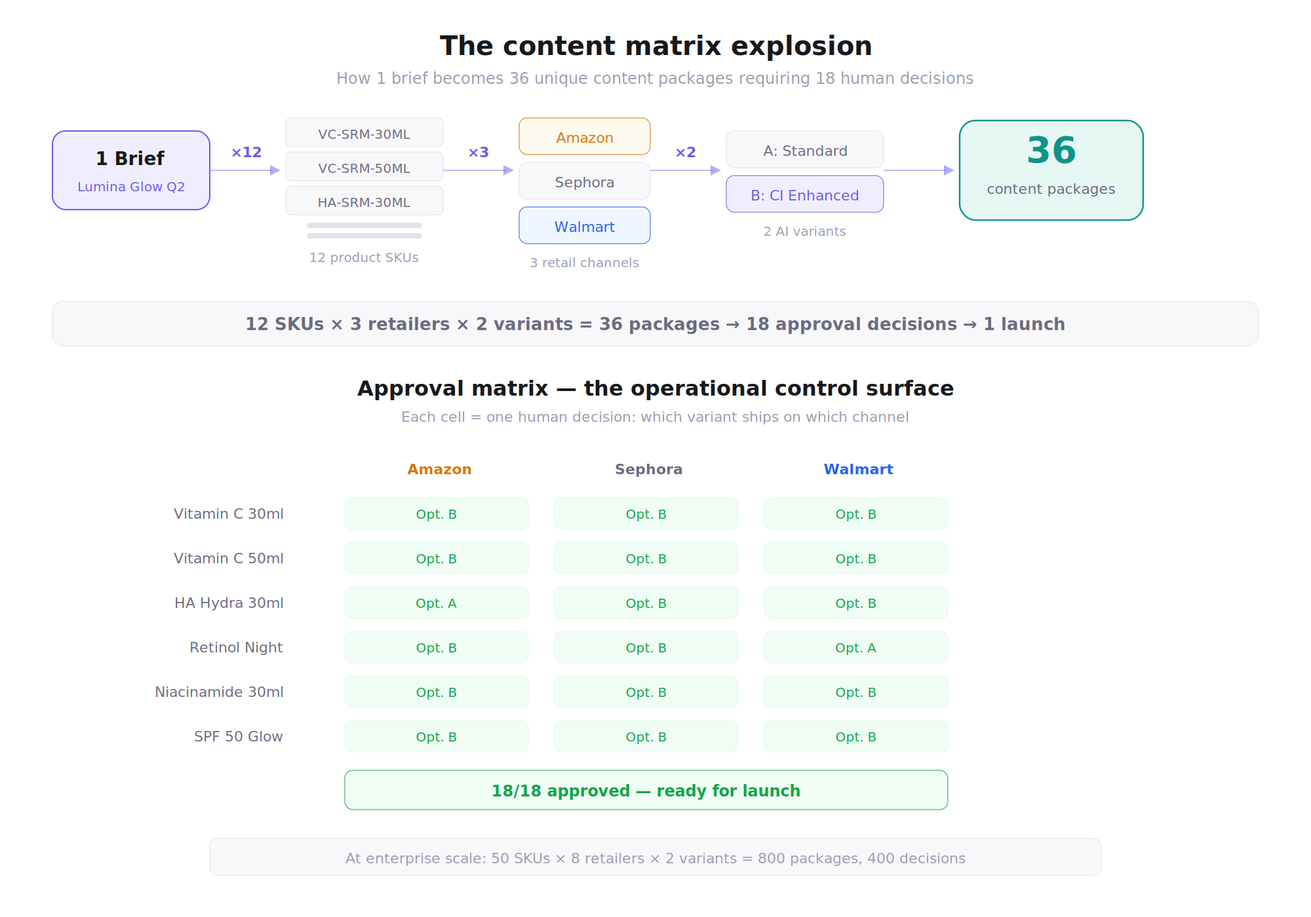
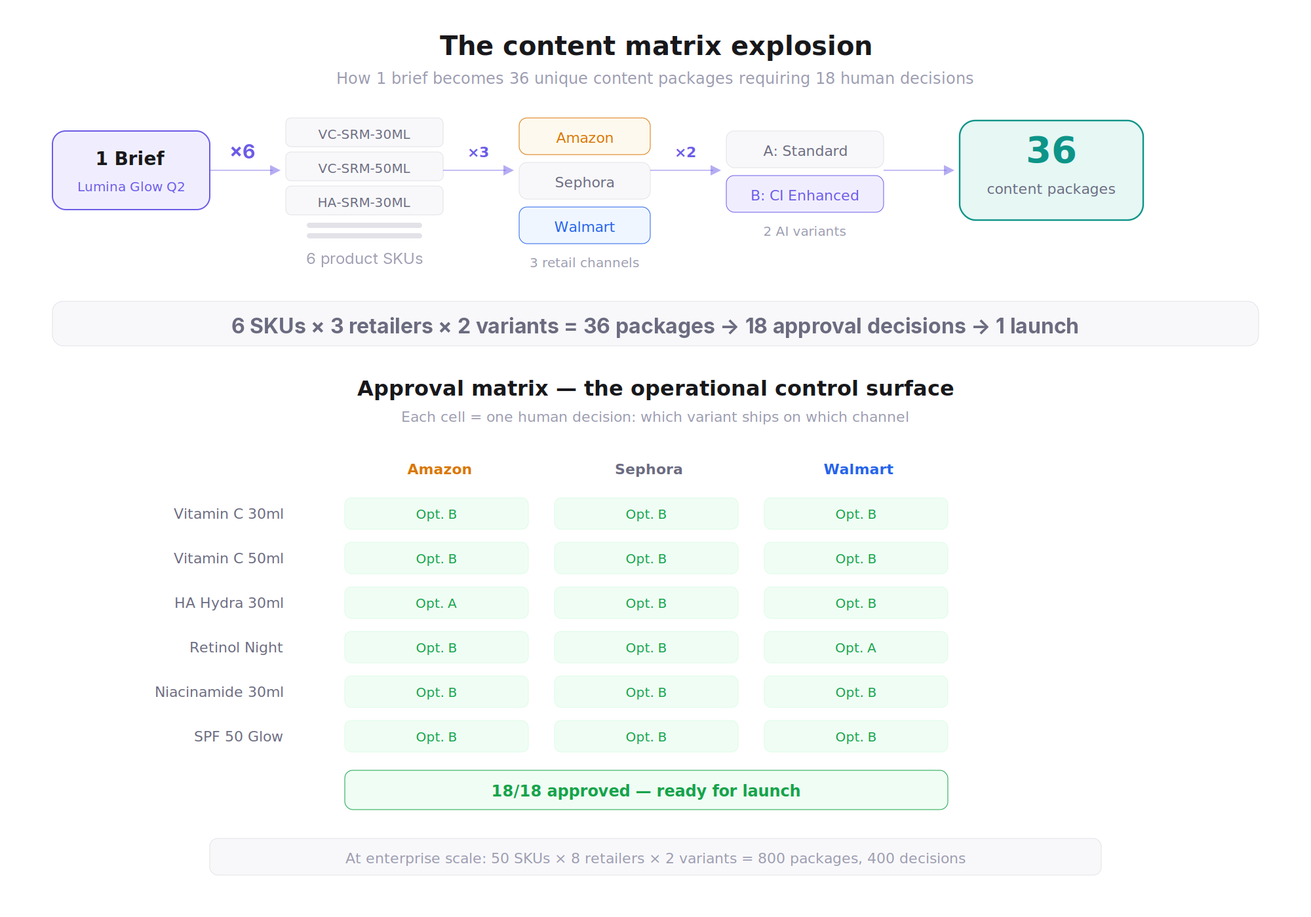
Fix deploy issues: email links, CV path, portrait format, ShelfFlow copy
- Replace Cloudflare-obfuscated email hrefs (/cdn-cgi/l/email-protection)
  with plain mailto: links in nav, contact block and footer. These were
  dead links outside Cloudflare, so the site's primary contact path was
  broken on GitHub Pages.
- Drop the two leftover cloudflare-static/email-decode.min.js script tags,
  which 404'd on every page load and no longer had anything to decode.
- Rename "Inigo Angulo CV 2026.pdf" to inigo-angulo-cv-2026.pdf and update
  both download links to remove the URL-encoded spaces.
- Swap the portrait from .jfif (unsupported in several browsers) to .webp.
- Point footer and Approach CTA hrefs at real fragments instead of "#".
- Copy fixes: "Trusted by" to "Worked with", 10+ to 9+ years, "+11 pts"
  to "+11%".
- ShelfFlow: correct the content matrix math to 6 SKUs x 3 retailers x
  2 variants = 36 packages throughout, and update workflow-3 diagram.

Claude-Session: https://claude.ai/code/session_012gDUzAeNXRnrzEKHXgrcxR

Changed region(s): [[0.155, 0.3379, 0.837, 0.3686], [0.248, 0.2764, 0.31, 0.3071], [0.186, 0.1536, 0.217, 0.1843]]

diff --git a/index.html b/index.html
@@ -684,10 +684,10 @@ a{color:inherit;text-decoration:none}button{font-family:inherit;border:none;back
 <div class="mob-menu__link" onclick="mgo('about')"><span>How I think</span><span class="mob-menu__link-num">02</span></div>
 <div class="mob-menu__link" onclick="mgo('logs')"><span>About</span><span class="mob-menu__link-num">03</span></div>
 <div class="mob-menu__cta"><a onclick="mgo('_contact')">Get in touch &#8594;</a></div>
-<div class="mob-menu__contact"><a href="/cdn-cgi/l/email-protection#2e47404749414f40495b42416e49434f4742004d4143">Email</a><a href="https://www.linkedin.com/in/i%C3%B1igo-angulo-1ab25a134/" target="_blank">LinkedIn</a><a href="tel:+41799528321">Phone</a></div>
+<div class="mob-menu__contact"><a href="mailto:inigoangulo@gmail.com">Email</a><a href="https://www.linkedin.com/in/i%C3%B1igo-angulo-1ab25a134/" target="_blank">LinkedIn</a><a href="tel:+41799528321">Phone</a></div>
 </div>
 </div>
-<script data-cfasync="false" src="/cdn-cgi/scripts/5c5dd728/cloudflare-static/email-decode.min.js"></script><script>
+<script>
 function go(n){
   document.querySelectorAll('.v').forEach(function(v){v.classList.remove('on')});
   document.querySelectorAll('.bar__btn').forEach(function(b){b.classList.remove('on')});
@@ -712,10 +712,10 @@ function go(n){
 <div class="hero__proof-item"><span class="hero__proof-val hero__proof-val--a">-22%</span><span class="hero__proof-label">Funnel friction</span><span class="hero__proof-ctx">ENSO, 3 European markets</span></div>
 <div class="hero__proof-item"><span class="hero__proof-val hero__proof-val--p">+34%</span><span class="hero__proof-label">Booking conversion</span><span class="hero__proof-ctx">ENSO, risk-calibrated urgency</span></div>
 </div>
-<div style="display:flex;gap:12px;flex-wrap:wrap"><a href="#contact" class="hero__cta" onclick="event.preventDefault();document.getElementById('contact').scrollIntoView({behavior:'smooth'})">Get in touch &#8594;</a><a href="Inigo%20Angulo%20CV%202026.pdf" download class="hero__cta" style="background:transparent;color:var(--ac2);border:1px solid var(--acb);box-shadow:none" onmouseover="this.style.background='var(--acg2)';this.style.boxShadow='0 0 20px var(--acg)'" onmouseout="this.style.background='transparent';this.style.boxShadow='none'">Download CV &#8595;</a></div>
+<div style="display:flex;gap:12px;flex-wrap:wrap"><a href="#contact" class="hero__cta" onclick="event.preventDefault();document.getElementById('contact').scrollIntoView({behavior:'smooth'})">Get in touch &#8594;</a><a href="inigo-angulo-cv-2026.pdf" download class="hero__cta" style="background:transparent;color:var(--ac2);border:1px solid var(--acb);box-shadow:none" onmouseover="this.style.background='var(--acg2)';this.style.boxShadow='0 0 20px var(--acg)'" onmouseout="this.style.background='transparent';this.style.boxShadow='none'">Download CV &#8595;</a></div>
 </div></div>
 
-<div class="clients"><div class="clients__inner"><p class="clients__label">Trusted by teams at</p><div class="clients__grid"><span class="clients__item">WPP</span><span class="clients__item">GetYourGuide</span><span class="clients__item">ING Bank</span><span class="clients__item">Adecco Group</span><span class="clients__item">Ferrari Switzerland</span><span class="clients__item">Moderna</span><span class="clients__item">Schneider Electric</span></div></div></div>
+<div class="clients"><div class="clients__inner"><p class="clients__label">Worked with teams at</p><div class="clients__grid"><span class="clients__item">WPP</span><span class="clients__item">GetYourGuide</span><span class="clients__item">ING Bank</span><span class="clients__item">Adecco Group</span><span class="clients__item">Ferrari Switzerland</span><span class="clients__item">Moderna</span><span class="clients__item">Schneider Electric</span></div></div></div>
 
 <div class="layer"><div class="mx">
 
@@ -724,7 +724,7 @@ function go(n){
 <p style="font-family:var(--m);font-size:.68rem;color:var(--ac);text-transform:uppercase;letter-spacing:.18em;margin-bottom:16px">// approach</p>
 <h2 style="font-family:var(--s);font-size:2.2rem;font-weight:800;letter-spacing:-.04em;line-height:1.12;margin-bottom:16px">I design backwards.</h2>
 <p style="font-family:var(--s);font-size:.94rem;color:var(--t2);line-height:1.7">Start with the decision the business needs to make. Build the system that produces it. Everything else gets removed.</p>
-<a href="#" onclick="go('about');return false" style="display:inline-flex;align-items:center;gap:6px;margin-top:20px;font-family:var(--s);font-size:.82rem;font-weight:500;color:var(--ac2);border:1px solid var(--acb);background:var(--acg2);padding:8px 20px;border-radius:6px;transition:all .3s var(--e);letter-spacing:.01em" onmouseover="this.style.background='var(--ac)';this.style.color='#000';this.style.borderColor='var(--ac)';this.style.boxShadow='0 0 20px var(--acg)'" onmouseout="this.style.background='var(--acg2)';this.style.color='var(--ac2)';this.style.borderColor='var(--acb)';this.style.boxShadow='none'">How I think <span style="font-size:.7rem">&#8594;</span></a>
+<a href="#how-i-think" onclick="go('about');return false" style="display:inline-flex;align-items:center;gap:6px;margin-top:20px;font-family:var(--s);font-size:.82rem;font-weight:500;color:var(--ac2);border:1px solid var(--acb);background:var(--acg2);padding:8px 20px;border-radius:6px;transition:all .3s var(--e);letter-spacing:.01em" onmouseover="this.style.background='var(--ac)';this.style.color='#000';this.style.borderColor='var(--ac)';this.style.boxShadow='0 0 20px var(--acg)'" onmouseout="this.style.background='var(--acg2)';this.style.color='var(--ac2)';this.style.borderColor='var(--acb)';this.style.boxShadow='none'">How I think <span style="font-size:.7rem">&#8594;</span></a>
 </div>
 
 <!-- Scroll-driven scribble -->
@@ -755,7 +755,7 @@ function go(n){
 <a href="work/shelfflow.html" class="cd cd--f cd--5"><div class="cd__img"><img src="img/shelfflow/cover.png" alt="ShelfFlow platform overview" style="width:100%;height:100%;object-fit:cover;object-position:center;position:absolute;inset:0"></div><div class="cd__body"><div class="cd__type"><span class="cd__tag cd__tag--what">B2B SaaS</span><span class="cd__tag cd__tag--what">AI-Assisted Workflow</span><span class="cd__tag cd__tag--what">Human-in-the-Loop</span><span class="cd__tag cd__tag--what">Content Operations</span><span class="cd__tag cd__tag--result">1 Brief &#8594; 36 Packages</span></div><h3 class="cd__name">ShelfFlow</h3><p class="cd__desc">Retail content operations had become slow, fragmented and impossible to scale. I designed the workflow operating system that turned complex brief creation, approvals and multi-retailer deployment into one structured AI-assisted flow.</p><div class="cd__foot"><span class="cd__yr">View case study</span><span class="cd__go">&#8594;</span></div></div></a>
 <a href="work/retailnorm.html" class="cd cd--1"><div class="cd__img"><img src="img/Retailnorm.png" alt="RetailNorm dashboard" style="width:100%;height:100%;object-fit:cover;position:absolute;inset:0"></div><div class="cd__body"><div class="cd__type"><span class="cd__tag cd__tag--what">Commerce</span><span class="cd__tag cd__tag--what">Dashboards</span><span class="cd__tag cd__tag--live">Live</span></div><h3 class="cd__name">RetailNorm</h3><p class="cd__desc">Cross-platform retail media analytics. Normalized incomparable ROAS data into a single trustworthy view. 40x faster reporting. Live product.</p><div class="cd__foot"><span class="cd__yr">View case study</span><span class="cd__go">&#8594;</span></div></div></a>
 <div class="cards__side">
-<a href="work/checkout.html" class="cd cd--3"><div class="cd__img"><img src="img/gyg-checkoutfunnel.jpeg" alt="GetYourGuide checkout redesign" style="width:100%;height:100%;object-fit:cover;object-position:center 30%;position:absolute;inset:0"></div><div class="cd__body"><div class="cd__type"><span class="cd__tag cd__tag--who">GetYourGuide</span><span class="cd__tag cd__tag--what">Growth &amp; CRO</span><span class="cd__tag cd__tag--result">+11% Conversion</span></div><h3 class="cd__name">Checkout Funnel Redesign</h3><p class="cd__desc">The team was optimizing the wrong step. 38% of converters left checkout and came back with no re-entry experience. The problem wasn't payment. It was the gap nobody measured. +11 pts, 4 EU markets.</p><div class="cd__foot"><span class="cd__yr">View case study</span><span class="cd__go">&#8594;</span></div></div></a>
+<a href="work/checkout.html" class="cd cd--3"><div class="cd__img"><img src="img/gyg-checkoutfunnel.jpeg" alt="GetYourGuide checkout redesign" style="width:100%;height:100%;object-fit:cover;object-position:center 30%;position:absolute;inset:0"></div><div class="cd__body"><div class="cd__type"><span class="cd__tag cd__tag--who">GetYourGuide</span><span class="cd__tag cd__tag--what">Growth &amp; CRO</span><span class="cd__tag cd__tag--result">+11% Conversion</span></div><h3 class="cd__name">Checkout Funnel Redesign</h3><p class="cd__desc">The team was optimizing the wrong step. 38% of converters left checkout and came back with no re-entry experience. The problem wasn't payment. It was the gap nobody measured. +11%, 4 EU markets.</p><div class="cd__foot"><span class="cd__yr">View case study</span><span class="cd__go">&#8594;</span></div></div></a>
 <a href="work/kodo.html" class="cd cd--2"><div class="cd__img"><img src="img/kodo/thumbnail.png" alt="KŌDO Arbitrage trading interface" style="width:100%;height:100%;object-fit:cover;position:absolute;inset:0"></div><div class="cd__body"><div class="cd__type"><span class="cd__tag cd__tag--who">Private Client</span><span class="cd__tag cd__tag--what">Crypto</span><span class="cd__tag cd__tag--what">Web3</span><span class="cd__tag cd__tag--what">Trading Interface</span><span class="cd__tag cd__tag--result">24/7 Live Capital</span></div><h3 class="cd__name">KŌDO Arbitrage</h3><p class="cd__desc">Private Web3 client. 24/7 autonomous execution. v1 had 23 metrics and the operator couldn't decide in under 30 minutes. A design failure with financial consequences. v2 answers one question.</p><div class="cd__foot"><span class="cd__yr">View case study</span><span class="cd__go">&#8594;</span></div></div></a>
 <a href="work/enso.html" class="cd cd--4"><div class="cd__img"><img src="img/enso.png" alt="ENSO Co-Living" style="width:100%;height:100%;object-fit:cover;position:absolute;inset:0"></div><div class="cd__body"><div class="cd__type"><span class="cd__tag cd__tag--who">ENSO Co-Living</span><span class="cd__tag cd__tag--what">PropTech</span><span class="cd__tag cd__tag--result">4x Adoption</span><span class="cd__tag cd__tag--result">+34% Conversion</span></div><h3 class="cd__name">ENSO Co-Living</h3><p class="cd__desc">Two phases, one platform. Redesigned onboarding (4x adoption), then built a risk-calibrated urgency system for the catalogue (+34% booking conversion). 3 European markets.</p><div class="cd__foot"><span class="cd__yr">View case study</span><span class="cd__go">&#8594;</span></div></div></a>
 </div>
@@ -763,7 +763,7 @@ function go(n){
 
 
 
-<div class="layer layer--raised" id="contact"><div class="mx"><div class="contact__row"><div class="contact__left"><h2>Let's talk about your system.</h2><p style="font-family:var(--s);font-size:.88rem;color:var(--t2);line-height:1.65;max-width:380px;margin-bottom:24px">I work on complex product problems where design directly impacts revenue, decision quality, or operational efficiency. Commerce, fintech, data-heavy systems.</p><div class="cl"><a href="/cdn-cgi/l/email-protection#771e191e1018161910021b1837101a161e1b5914181a"><span>Email</span><span class="__cf_email__" data-cfemail="61080f08060e000f06140d0e21060c00080d4f020e0c">[email&#160;protected]</span></a><a href="https://www.linkedin.com/in/i%C3%B1igo-angulo-1ab25a134/" target="_blank"><span>LinkedIn</span>/inigo-angulo</a><a href="tel:+41799528321"><span>Phone</span>+41 79 952 83 21</a></div><p style="font-family:var(--s);font-size:.76rem;color:var(--t3);margin-top:20px;line-height:1.6">Based in Zurich. Remote or hybrid.</p></div><div class="contact__right"><p class="contact__ft">// reach out</p><div class="ff"><label>Name</label><input placeholder="Your name"></div><div class="ff"><label>Email</label><input type="email" placeholder="your@email.com"></div><div class="ff"><label>What are you working on?</label><textarea placeholder="Tell me about the system you're building, the problem you're stuck on, or the role you're hiring for."></textarea></div><button class="form-go">Send message</button></div></div></div></div>
+<div class="layer layer--raised" id="contact"><div class="mx"><div class="contact__row"><div class="contact__left"><h2>Let's talk about your system.</h2><p style="font-family:var(--s);font-size:.88rem;color:var(--t2);line-height:1.65;max-width:380px;margin-bottom:24px">I work on complex product problems where design directly impacts revenue, decision quality, or operational efficiency. Commerce, fintech, data-heavy systems.</p><div class="cl"><a href="mailto:inigoangulo@gmail.com"><span>Email</span><span>inigoangulo@gmail.com</span></a><a href="https://www.linkedin.com/in/i%C3%B1igo-angulo-1ab25a134/" target="_blank"><span>LinkedIn</span>/inigo-angulo</a><a href="tel:+41799528321"><span>Phone</span>+41 79 952 83 21</a></div><p style="font-family:var(--s);font-size:.76rem;color:var(--t3);margin-top:20px;line-height:1.6">Based in Zurich. Remote or hybrid.</p></div><div class="contact__right"><p class="contact__ft">// reach out</p><div class="ff"><label>Name</label><input placeholder="Your name"></div><div class="ff"><label>Email</label><input type="email" placeholder="your@email.com"></div><div class="ff"><label>What are you working on?</label><textarea placeholder="Tell me about the system you're building, the problem you're stuck on, or the role you're hiring for."></textarea></div><button class="form-go">Send message</button></div></div></div></div>
 </section>
 
 <!-- ████ THINKING ████ -->
@@ -1012,7 +1012,7 @@ function go(n){
 <div style="display:grid;grid-template-columns:1fr 1.4fr;gap:48px;align-items:start">
 <div>
 <div style="position:relative;width:100%;aspect-ratio:3/4;border-radius:12px;overflow:hidden;border:1px solid var(--b1)">
-<img src="img/portrait-inigo.jfif" alt="Inigo Angulo" style="width:100%;height:100%;object-fit:cover">
+<img src="img/portrait-inigo.webp" alt="Inigo Angulo" style="width:100%;height:100%;object-fit:cover">
 </div>
 <div style="display:flex;gap:16px;margin-top:16px;flex-wrap:wrap">
 <span style="font-family:var(--m);font-size:.68rem;color:var(--t3)">Zurich, Switzerland</span>
@@ -1022,7 +1022,7 @@ function go(n){
 <div>
 <div class="sh" style="margin-bottom:24px"><span>// about me</span></div>
 <h2 style="font-family:var(--s);font-size:1.6rem;font-weight:800;letter-spacing:-.03em;line-height:1.2;margin-bottom:16px">Inigo Angulo</h2>
-<p style="font-family:var(--s);font-size:.92rem;color:var(--t2);line-height:1.75;margin-bottom:16px">I&#8217;m a product designer based in Zurich with 10+ years of experience across commerce, fintech, PropTech, and travel.</p>
+<p style="font-family:var(--s);font-size:.92rem;color:var(--t2);line-height:1.75;margin-bottom:16px">I&#8217;m a product designer based in Zurich with 9+ years of experience across commerce, fintech, PropTech, and travel.</p>
 <p style="font-family:var(--s);font-size:.92rem;color:var(--t2);line-height:1.75;margin-bottom:16px">I work on complex, data-rich products where clarity, speed, and business impact matter. My focus is turning messy systems into experiences that are easier to use, easier to trust, and better aligned with how people actually make decisions.</p>
 <p style="font-family:var(--s);font-size:.92rem;color:var(--t2);line-height:1.75;margin-bottom:16px">Currently, I&#8217;m Experience Lead for Commerce at WPP, shaping end-to-end UX across AI-enabled platforms. Previously, I led conversion optimisation at GetYourGuide, designed luxury trading platforms at Crowdhouse AG, and contributed to a multi-country design system at ING Bank.</p>
 <p style="font-family:var(--s);font-size:.92rem;color:var(--t2);line-height:1.75;margin-bottom:24px">My work sits between product strategy, behavioural analytics, and experience design. I use tools like PostHog, GA4, and Mixpanel not just to validate decisions, but to uncover friction, blind spots, and patterns that usually go unnoticed.</p>
@@ -1048,16 +1048,16 @@ function go(n){
 <!-- FOOTER -->
 <footer class="footer">
 <div class="footer__inner">
-<div><span class="footer__brand">Inigo Angulo</span><p class="footer__desc">Product designer and growth strategist based in Zurich. 10 years building systems that move metrics.</p></div>
-<div><p class="footer__col-title">Navigation</p><div class="footer__links"><a href="#" onclick="go('index');return false">Work</a><a href="#" onclick="go('about');return false">How I think</a><a href="#" onclick="go('logs');return false">About</a></div></div>
-<div><p class="footer__col-title">Connect</p><div class="footer__links"><a href="/cdn-cgi/l/email-protection#096067606e6668676e7c6566496e64686065276a6664">Email</a><a href="https://www.linkedin.com/in/i%C3%B1igo-angulo-1ab25a134/" target="_blank">LinkedIn</a><a href="tel:+41799528321">Phone</a></div></div>
-<div><p class="footer__col-title">Resources</p><div class="footer__links"><a href="Inigo%20Angulo%20CV%202026.pdf" download>Download CV</a></div></div>
+<div><span class="footer__brand">Inigo Angulo</span><p class="footer__desc">Product designer and growth strategist based in Zurich. 9+ years building systems that move metrics.</p></div>
+<div><p class="footer__col-title">Navigation</p><div class="footer__links"><a href="#work" onclick="go('index');return false">Work</a><a href="#how-i-think" onclick="go('about');return false">How I think</a><a href="#about" onclick="go('logs');return false">About</a></div></div>
+<div><p class="footer__col-title">Connect</p><div class="footer__links"><a href="mailto:inigoangulo@gmail.com">Email</a><a href="https://www.linkedin.com/in/i%C3%B1igo-angulo-1ab25a134/" target="_blank">LinkedIn</a><a href="tel:+41799528321">Phone</a></div></div>
+<div><p class="footer__col-title">Resources</p><div class="footer__links"><a href="inigo-angulo-cv-2026.pdf" download>Download CV</a></div></div>
 </div>
 <div class="footer__bottom"><span class="footer__copy">2026 Inigo Angulo</span><span class="footer__built">Built with code, not templates</span></div>
 </footer>
 
 <div class="cmd" id="cmd"><span class="cmd__p">&gt;</span><input class="cmd__i" id="cmdIn" placeholder="Type a view or project name..." autocomplete="off"></div>
-<script data-cfasync="false" src="/cdn-cgi/scripts/5c5dd728/cloudflare-static/email-decode.min.js"></script><script>
+<script>
 var vm={'1':'index','2':'work','3':'about','4':'logs'};
 var cmd=document.getElementById('cmd'),ci=document.getElementById('cmdIn'),co=false;
 document.addEventListener('keydown',function(e){if(e.target.tagName==='INPUT'||e.target.tagName==='TEXTAREA'){if(e.key==='Escape'&&co)tc(0);if(e.key==='Enter'&&co){ex(ci.value.trim().toLowerCase());e.preventDefault()}return}if(vm[e.key]&&!e.metaKey&&!e.ctrlKey){go(vm[e.key]);return}if(e.key==='k'&&(e.metaKey||e.ctrlKey)){e.preventDefault();tc(!co);return}if(e.key==='Escape'&&co)tc(0)});

diff --git a/work/shelfflow.html b/work/shelfflow.html
@@ -108,7 +108,7 @@
       <p>This wasn't a creativity problem or a tooling gap. It was a <strong>coordination overhead problem</strong> that got exponentially worse with every new SKU, retailer, or market added to the matrix.</p>
     </div>
     <ul class="cs__list">
-      <li><strong>6 SKUs &#215; 6 retailers = 36 content packages</strong> from a single product brief. Each with unique spec requirements, character limits, and compliance constraints.</li>
+      <li><strong>6 SKUs &#215; 3 retailers &#215; 2 variants = 36 content packages</strong> from a single product brief. Each with unique spec requirements, character limits, and compliance constraints.</li>
       <li><strong>No single source of truth.</strong> Content lived in spreadsheets, email threads, and shared drives. Version conflicts were constant. Teams regularly shipped outdated copy because they couldn't tell which file was current.</li>
       <li><strong>Approval chains were invisible.</strong> No one knew who had approved what, or what was still pending. A single missing sign-off could block an entire launch, and the team often wouldn't discover it until the deadline.</li>
       <li><strong>Multi-market duplication.</strong> Teams in different regions recreated the same content independently, introducing inconsistencies across markets that took days to reconcile.</li>
@@ -280,7 +280,7 @@
         </tr>
         <tr>
           <td>Package granularity</td>
-          <td>1 package = 1 SKU &#215; 1 retailer</td>
+          <td>1 package = 1 SKU &#215; 1 retailer &#215; 1 variant</td>
           <td>Grouped by SKU or by retailer</td>
           <td>Retailer specs diverge too much for grouping to be safe. Amazon character limits differ from Sephora's by 40%+. Grouping hides critical differences that cause portal rejections downstream.</td>
         </tr>
@@ -347,21 +347,21 @@
     <span class="cs__section-num">08 Operational Scale</span>
     <h2 class="cs__section-h">36 packages. 18 approvals. 200+ state transitions. The combinatorial reality that makes manual workflows collapse.</h2>
     <div class="cs__section-text">
-      <p>The core complexity of ShelfFlow isn't any single content package. It's the <strong>combinatorial explosion</strong> when you multiply SKUs by retailers by markets. A "simple" 6-SKU launch across 6 retailers generates 36 unique content packages, each needing at least 3 human touch points.</p>
+      <p>The core complexity of ShelfFlow isn't any single content package. It's the <strong>combinatorial explosion</strong> when you multiply SKUs by retailers by markets. A "simple" 6-SKU launch across 3 retailers, each with two AI-generated variants, generates 36 unique content packages, each needing at least 3 human touch points.</p>
       <p>This is where manual workflows break. Not at package #1, but at package #27, when reviewer fatigue sets in and the differences between Amazon and Walmart specs blur together. ShelfFlow's job is to make package #36 as reviewable as package #1.</p>
     </div>
     <div class="cs__evidence">
       <span class="cs__evidence-label">Scale math</span>
-      <span class="cs__evidence-text"><strong>6 SKUs &#215; 6 retailers = 36 packages.</strong> Each package passes through 4 gates. That's 144 gate evaluations per launch. With roughly 50% requiring at least one revision cycle, the system manages 200+ state transitions per product launch. Without structured workflow, this volume becomes untrackable within the first week.</span>
+      <span class="cs__evidence-text"><strong>6 SKUs &#215; 3 retailers &#215; 2 variants = 36 packages.</strong> Each package passes through 4 gates. That's 144 gate evaluations per launch. With roughly 50% requiring at least one revision cycle, the system manages 200+ state transitions per product launch. Without structured workflow, this volume becomes untrackable within the first week.</span>
     </div>
     <div class="cs__evidence" style="border-color:var(--am)">
       <span class="cs__evidence-label" style="color:var(--am)">Edge cases and constraints</span>
-      <span class="cs__evidence-text">The system had to handle partial approvals (3 of 6 retailers ready, 3 still in review), mid-cycle brief changes (product claims updated after generation), and cross-package dependencies (a compliance flag on one SKU potentially affecting all packages sharing the same claim). These weren't theoretical scenarios. They were weekly occurrences in the existing workflow.</span>
+      <span class="cs__evidence-text">The system had to handle partial approvals (2 of 3 retailers ready, 1 still in review), mid-cycle brief changes (product claims updated after generation), and cross-package dependencies (a compliance flag on one SKU potentially affecting all packages sharing the same claim). These weren't theoretical scenarios. They were weekly occurrences in the existing workflow.</span>
     </div>
 
   <!-- Content matrix explosion -->
   <div class="cs__img cs__img--wide" data-reveal><img src="../img/shelfflow/workflow-3.png" alt="Content matrix explosion: 1 brief becomes 36 packages"></div>
-  <p class="cs__img-cap">The content matrix explosion: 1 brief &#8594; 12 SKUs &#215; 3 retailers &#215; 2 variants = 36 content packages &#8594; 18 approval decisions &#8594; 1 launch.</p>
+  <p class="cs__img-cap">The content matrix explosion: 1 brief &#8594; 6 SKUs &#215; 3 retailers &#215; 2 variants = 36 content packages &#8594; 18 approval decisions &#8594; 1 launch.</p>
   </div>
 
   <!-- 09: Ecosystem -->
@@ -437,7 +437,7 @@
     </div>
     <div class="cs__reflection" style="border-color:var(--ac);background:var(--acg2)">
       <span class="cs__reflection-h" style="color:var(--ac)">What success looks like</span>
-      <span class="cs__reflection-text">A content team launches a new product across 6 retailers in days instead of weeks. Every approval has a timestamp and an owner. Every AI-generated draft has been reviewed by a human before it reaches a retailer portal. When compliance asks "who approved this claim for Walmart?", the answer takes seconds, not a forensic email search. The system doesn't make the work disappear. It makes the work structured enough to scale.</span>
+      <span class="cs__reflection-text">A content team launches a new product across 3 retailers in days instead of weeks. Every approval has a timestamp and an owner. Every AI-generated draft has been reviewed by a human before it reaches a retailer portal. When compliance asks "who approved this claim for Walmart?", the answer takes seconds, not a forensic email search. The system doesn't make the work disappear. It makes the work structured enough to scale.</span>
     </div>
   </div>
 
